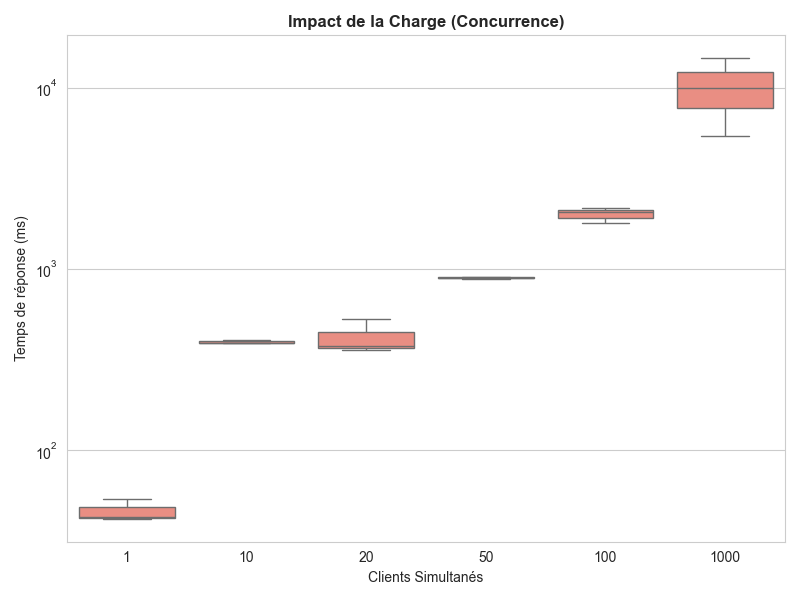
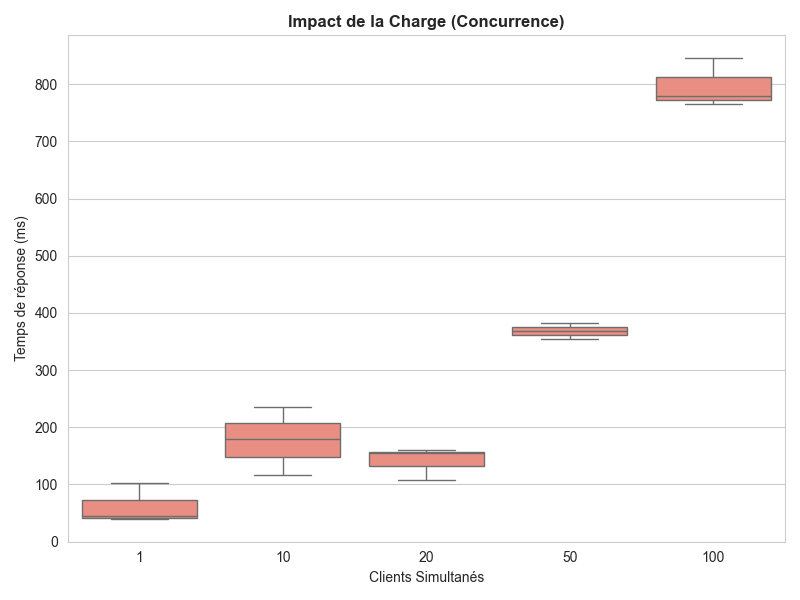
fix bench_conc.py

diff --git a/Scripts/bench_conc.py b/Scripts/bench_conc.py
@@ -2,52 +2,97 @@ import subprocess
 import csv
 import re
 import time
+import argparse
+import threading
+from concurrent.futures import ThreadPoolExecutor, as_completed
 
 # --- CONFIGURATION ---
-TARGET_URL = "https://massive-gcp-473713.ew.r.appspot.com/api/timeline?user=user1"
+BASE_URL = "https://massive-gcp-473713.ew.r.appspot.com/api/timeline"
 OUTPUT_FILE = "out/conc.csv"
-PARAMS = [1, 10, 20, 50, 100, 1000] 
+PARAMS = [1, 10, 20, 50, 100, 1000]
 
-def run():
+
+def run(num_users: int):
+    """Run concurrence tests: for each c in PARAMS launch min(c, num_users)
+    ab instances in parallel (each does a single request). This makes the
+    total concurrent requests equal to c when enough users are available.
+    """
     with open(OUTPUT_FILE, 'w', newline='') as f:
         writer = csv.writer(f)
         writer.writerow(["PARAM", "AVG_TIME", "RUN", "FAILED"])
+        print_lock = threading.Lock()
 
         for concurrency in PARAMS:
-            # Pour la concurrence, on teste le paramètre c
             c = concurrency
-            # On adapte le nombre de requêtes (n) pour qu'il soit au moins égal à c
-            n = c if c >= 20 else 20 
-            
-            print(f"\n--- Test Concurrence: {c} (Requêtes: {n}) ---")
+            target_count = min(c, num_users)
+            if target_count < c:
+                with print_lock:
+                    print(f"[WARN] --users={num_users} < requested concurrency {c}. "
+                          f"Seuls {target_count} users seront lancés (parallélisme total = {target_count}).")
 
-            for run_id in range(1, 4): 
-                cmd = f"ab -k -c {c} -n {n} -t 5 \"{TARGET_URL}\""
-                
-                avg_time = "0ms"
+            with print_lock:
+                print(f"\n--- Test Concurrence: {c} (instances simultanées: {target_count}) ---")
+
+            for run_id in range(1, 4):
+                with print_lock:
+                    print(f"  Run {run_id}/3 pour concurrency={c}")
+
+                def ab_one(user_idx: int):
+                    target_url = f"{BASE_URL}?user=user{user_idx}"
+                    cmd = f"ab -k -c 1 -n 1 -t 5 \"{target_url}\""
+                    try:
+                        res = subprocess.run(cmd, shell=True, capture_output=True, text=True)
+                        output = (res.stdout or "") + "\n" + (res.stderr or "")
+                        match = re.search(r"Time per request:\s+([0-9\.]+)\s+\[ms\]\s+\(mean\)", output)
+                        if match:
+                            return (int(float(match.group(1))), 0)
+                        else:
+                            with print_lock:
+                                print(f"[ab failed] cmd={cmd}\noutput=\n{output}")
+                            return (0, 1)
+                    except Exception as e:
+                        with print_lock:
+                            print(f"Erreur instance user{user_idx}: {e}")
+                        return (0, 1)
+
+                times = []
                 failed = 0
-                
-                try:
-                    res = subprocess.run(cmd, shell=True, capture_output=True, text=True)
-                    output = res.stdout
-                    
-                    match = re.search(r"Time per request:\s+([0-9\.]+)\s+\[ms\]\s+\(mean\)", output)
-                    if match:
-                        avg_time = f"{int(float(match.group(1)))}ms"
-                    else:
+
+                if target_count == 0:
+                    with print_lock:
+                        print("Aucun user disponible pour ce niveau de concurrence, on passe.")
+                    writer.writerow([c, "0ms", run_id, target_count])
+                    continue
+
+                with ThreadPoolExecutor(max_workers=target_count) as ex:
+                    futures = {ex.submit(ab_one, uid): uid for uid in range(1, target_count + 1)}
+                    for fut in as_completed(futures):
+                        t, err = fut.result()
+                        if err:
+                            failed += 1
+                        else:
+                            times.append(t)
+
+                avg_time = f"{int(sum(times)/len(times))}ms" if times else "0ms"
+                with print_lock:
+                    if failed > 1 :
                         failed = 1
-                    
-                    if "Non-2xx responses" in output or res.returncode != 0:
-                        failed = 1
-                        
-                except Exception as e:
-                    print(f"Erreur: {e}")
-                    failed = 1
-                
-                print(f"   Run {run_id}: {avg_time} | Failed: {failed}")
+                    print(f"   Run {run_id}: {avg_time} | Failed: {failed}")
                 writer.writerow([c, avg_time, run_id, failed])
-                f.flush() 
-                time.sleep(1) 
+                f.flush()
+                time.sleep(1)
+
+
+def parse_args():
+    p = argparse.ArgumentParser(description='Bench concurrence (ab) for multiple users')
+    p.add_argument('-u', '--users', type=int, default=None, help='Nombre d\'utilisateurs disponibles (user1..userN). Par défaut = max(PARAMS)')
+    return p.parse_args()
+
 
 if __name__ == '__main__':
-    run()
+    args = parse_args()
+    users = args.users if args.users is not None else max(PARAMS)
+    if users < 1:
+        print("Le nombre d'utilisateurs doit être >= 1")
+    else:
+        run(users)

diff --git a/README.md b/README.md
@@ -1,3 +1,8 @@
 # Benchmark-massiveGCP
 
 https://massive-gcp-473713.ew.r.appspot.com/
+
+
+# Modification 
+ - Modifié bench_fanout.py pour parralélisme 
+ - Modificié bench_post.py pour parralélisme 
